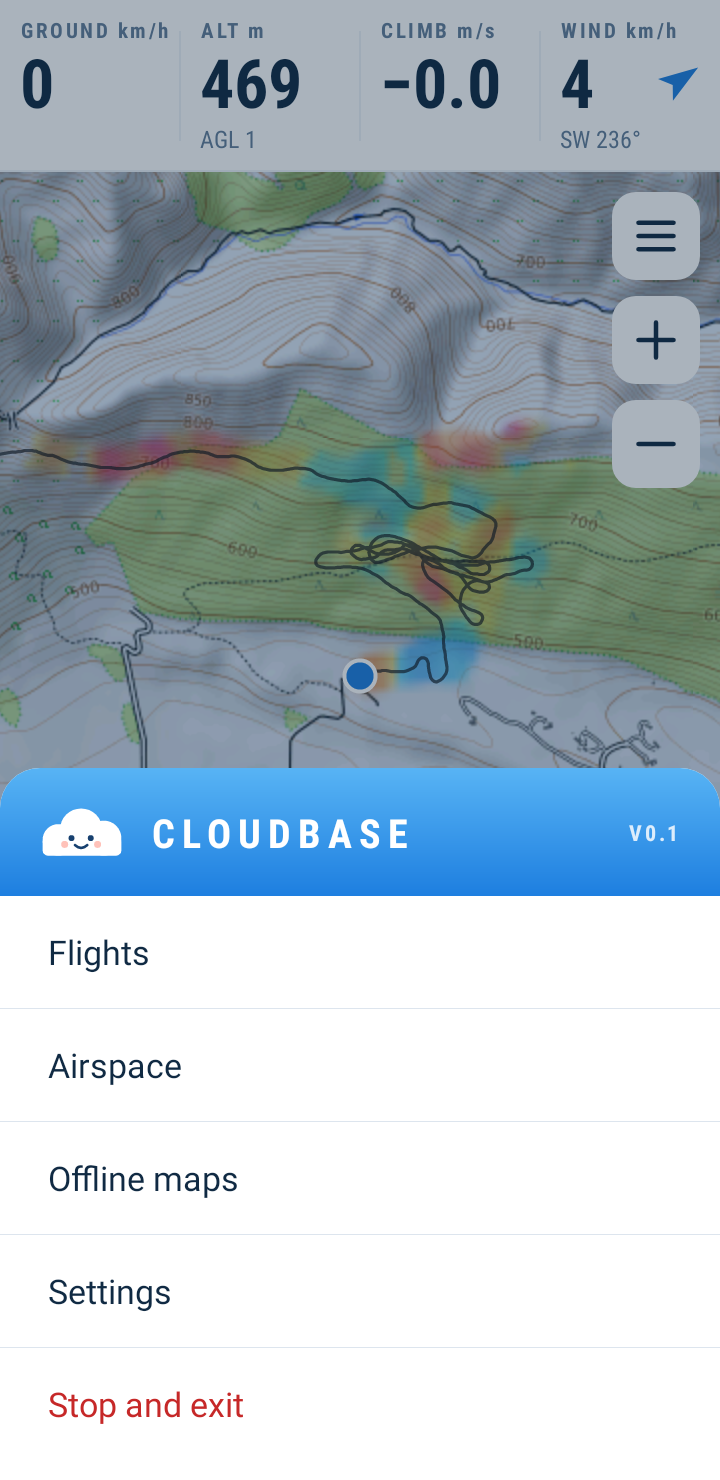
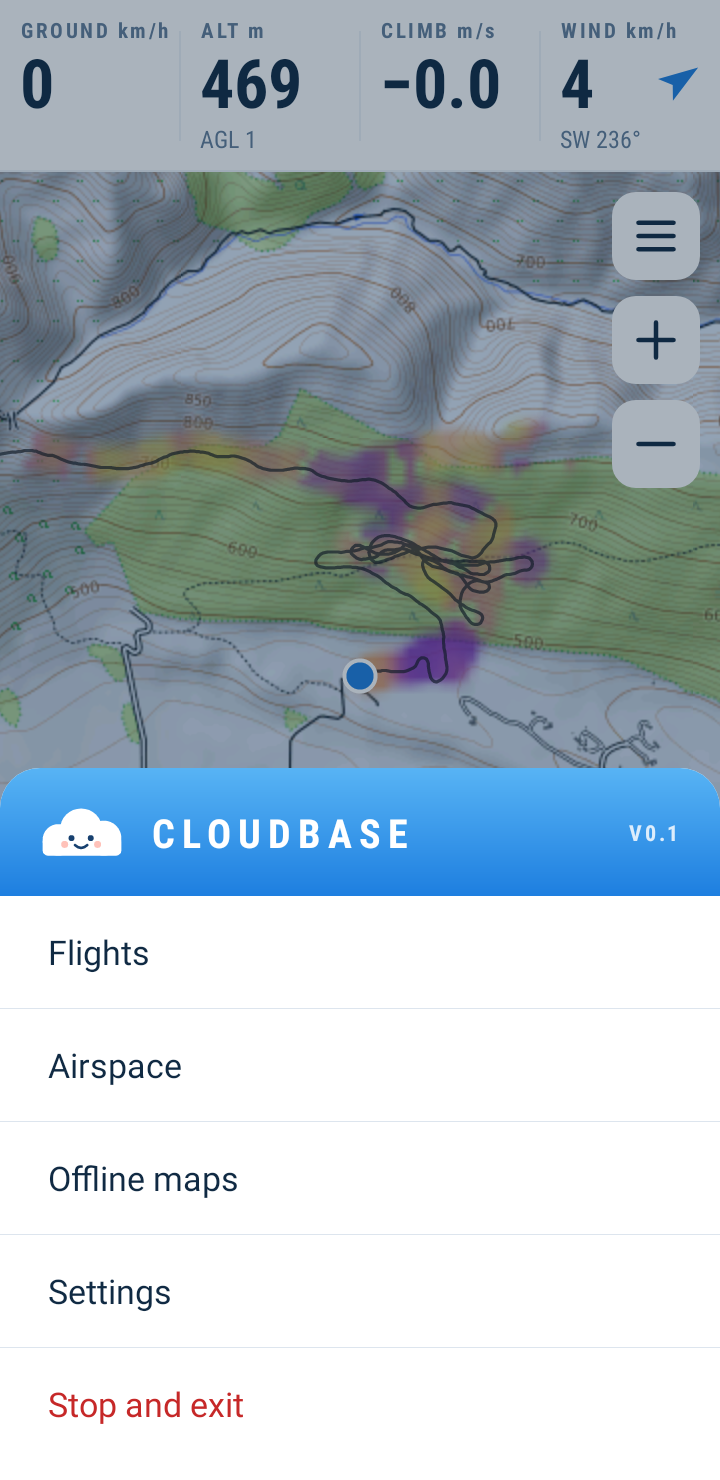
cloudbase: heat map on a single dark-to-bright (plasma) scale with sigmoid mapping
Claude-Session: https://claude.ai/code/session_01WPq8MfriARqNX7o4hLC8bK

Changed region(s): [[0.4278, 0.2797, 0.7639, 0.4662], [0.1222, 0.2797, 0.2444, 0.3419], [0.275, 0.2797, 0.3361, 0.3419]]

diff --git a/app/src/test/java/app/cloudbase/ui/HeatGridTest.kt b/app/src/test/java/app/cloudbase/ui/HeatGridTest.kt
@@ -3,49 +3,95 @@ package app.cloudbase.ui
 import org.junit.Assert.assertEquals
 import org.junit.Assert.assertTrue
 import org.junit.Test
+import kotlin.math.abs
 
 class HeatGridTest {
+    private val scale = 2.0f
     private fun alpha(c: Int) = c ushr 24
-    private fun red(c: Int) = c shr 16 and 0xFF
-    private fun blue(c: Int) = c and 0xFF
+    private fun rgb(c: Int) = c and 0xFFFFFF
 
-    @Test fun colourIsGraduatedAndSplitByDirection() {
-        // Nothing inside the dead band.
-        assertEquals(0, HeatGrid.color(0.1f, 3f, 1f))
-        assertEquals(0, HeatGrid.color(-0.15f, 3f, 1f))
-        // Lift is warm, sink is cool.
-        val lift = HeatGrid.color(2f, 3f, 1f)
-        val sink = HeatGrid.color(-2f, 3f, 1f)
-        assertTrue(red(lift) > blue(lift) + 80)
-        assertTrue(blue(sink) > red(sink) + 80)
-        // Stronger is more opaque, monotonically, and saturates at full scale.
-        var last = 0
-        for (v in listOf(0.3f, 0.6f, 1f, 1.5f, 2f, 2.5f, 3f)) {
-            val a = alpha(HeatGrid.color(v, 3f, 1f))
-            assertTrue("alpha at $v", a > last)
-            last = a
+    /** Perceived brightness, 0..255 (Rec. 601 luma). */
+    private fun luma(c: Int) = 0.299 * (c shr 16 and 0xFF) + 0.587 * (c shr 8 and 0xFF) + 0.114 * (c and 0xFF)
+
+    /** How far apart two colours are, in RGB. */
+    private fun distance(a: Int, b: Int): Double {
+        val dr = (a shr 16 and 0xFF) - (b shr 16 and 0xFF)
+        val dg = (a shr 8 and 0xFF) - (b shr 8 and 0xFF)
+        val db = (a and 0xFF) - (b and 0xFF)
+        return Math.sqrt((dr * dr + dg * dg + db * db).toDouble())
+    }
+
+    @Test fun brightnessRisesSteadilyFromSinkToClimb() {
+        var last = -1.0
+        var v = -6f
+        while (v <= 6f) {
+            if (abs(v) > HeatGrid.DEAD_BAND) {
+                val l = luma(HeatGrid.color(v, scale, 1f))
+                assertTrue("brightness at $v m/s ($l) must not be below the value before ($last)", l >= last - 0.5)
+                last = l
+            }
+            v += 0.25f
         }
-        assertEquals(HeatGrid.color(3f, 3f, 1f), HeatGrid.color(8f, 3f, 1f))
-        assertEquals(HeatGrid.MAX_ALPHA, alpha(HeatGrid.color(3f, 3f, 1f)))
-        // The hue itself changes with strength, not only the opacity.
-        assertTrue(HeatGrid.color(0.5f, 3f, 1f) and 0xFFFFFF != HeatGrid.color(2.8f, 3f, 1f) and 0xFFFFFF)
-        // Coverage fades.
-        assertTrue(alpha(HeatGrid.color(2f, 3f, 0.3f)) < alpha(lift))
+        // Strong sink is dark, strong climb is bright.
+        assertTrue(luma(HeatGrid.color(-5f, scale, 1f)) < 45)
+        assertTrue(luma(HeatGrid.color(5f, scale, 1f)) > 190)
+    }
+
+    @Test fun neverUsesTheMapsGreens() {
+        // The map underneath is greens and grey-blues; nothing on the scale may be green. (The
+        // bright end is yellow, where green and red are both high: that is not green.)
+        var v = -6f
+        while (v <= 6f) {
+            val c = HeatGrid.color(v, scale, 1f)
+            if (c != 0) {
+                val r = c shr 16 and 0xFF; val g = c shr 8 and 0xFF; val b = c and 0xFF
+                assertTrue("green at $v m/s: %06X".format(rgb(c)), !(g > r + 25 && g > b + 25))
+            }
+            v += 0.1f
+        }
+    }
+
+    @Test fun mostOfTheScaleIsSpentOnOrdinaryClimbRates() {
+        // Sigmoid: half a metre per second is a much bigger colour step near zero than out at the extremes.
+        val near = distance(HeatGrid.color(0.5f, scale, 1f), HeatGrid.color(1.0f, scale, 1f))
+        val far = distance(HeatGrid.color(4.0f, scale, 1f), HeatGrid.color(4.5f, scale, 1f))
+        assertTrue("near $near, far $far", near > 5 * far)
+        // Every half-step across the ordinary range is a clearly different colour.
+        var v = -2.5f
+        while (v < 2.5f) {
+            if (abs(v) > HeatGrid.DEAD_BAND && abs(v + 0.5f) > HeatGrid.DEAD_BAND) {
+                val d = distance(HeatGrid.color(v, scale, 1f), HeatGrid.color(v + 0.5f, scale, 1f))
+                assertTrue("%.1f to %.1f m/s differ by only %.0f".format(v, v + 0.5f, d), d > 18)
+            }
+            v += 0.5f
+        }
+        assertEquals(0.5f, HeatGrid.position(0f, scale), 1e-6f)
+        assertEquals(0.88f, HeatGrid.position(2.0f, scale), 0.01f)
+        assertTrue(HeatGrid.position(50f, scale) <= 1f && HeatGrid.position(-50f, scale) >= 0f)
+    }
+
+    @Test fun stillAirIsNotDrawnAndOpacityIsCoverageOnly() {
+        assertEquals(0, HeatGrid.color(0.1f, scale, 1f))
+        assertEquals(0, HeatGrid.color(-0.15f, scale, 1f))
+        // Weak and strong air are equally opaque: the colour carries the strength.
+        assertEquals(HeatGrid.ALPHA, alpha(HeatGrid.color(0.4f, scale, 1f)))
+        assertEquals(HeatGrid.ALPHA, alpha(HeatGrid.color(4f, scale, 1f)))
+        assertTrue(alpha(HeatGrid.color(2f, scale, 0.3f)) < HeatGrid.ALPHA / 2)
     }
 
     @Test fun oneCellBecomesASoftBlob() {
         val g = HeatGrid(16)
         g.clear()
         g.splat(8, 8, 2f, 1f)
-        g.render(3f)
+        g.render(scale)
         val centre = alpha(g.pixels[8 * 16 + 8])
         val next = alpha(g.pixels[8 * 16 + 9])
         val edge = alpha(g.pixels[8 * 16 + 10])
-        assertEquals(alpha(HeatGrid.color(2f, 3f, 1f)), centre)
+        assertEquals(HeatGrid.ALPHA, centre)
         assertTrue("fades outwards: $centre > $next > $edge > 0", centre > next && next > edge && edge > 0)
         assertEquals(0, g.pixels[8 * 16 + 11])
         // Same value everywhere it reaches: only the opacity falls off.
-        assertEquals(g.pixels[8 * 16 + 8] and 0xFFFFFF, g.pixels[8 * 16 + 9] and 0xFFFFFF)
+        assertEquals(rgb(g.pixels[8 * 16 + 8]), rgb(g.pixels[8 * 16 + 9]))
         // Symmetric.
         assertEquals(g.pixels[8 * 16 + 9], g.pixels[8 * 16 + 7])
         assertEquals(g.pixels[8 * 16 + 9], g.pixels[9 * 16 + 8])
@@ -56,45 +102,43 @@ class HeatGridTest {
         g.clear()
         g.splat(6, 8, 2f, 1f)
         g.splat(8, 8, -2f, 1f)
-        g.render(3f)
-        // Exactly between equal lift and sink the average is zero: transparent, not purple.
+        g.render(scale)
+        // Exactly between equal lift and sink the average is zero: transparent.
         assertEquals(0, g.pixels[8 * 16 + 7])
-        assertTrue(red(g.pixels[8 * 16 + 6]) > blue(g.pixels[8 * 16 + 6]))
-        assertTrue(blue(g.pixels[8 * 16 + 8]) > red(g.pixels[8 * 16 + 8]))
+        assertTrue(luma(g.pixels[8 * 16 + 6]) > luma(g.pixels[8 * 16 + 8]) + 60)
     }
 
     @Test fun oldCellsCountForLess() {
         val g = HeatGrid(16)
         g.clear()
         g.splat(8, 8, 2f, 0.3f)
-        g.render(3f)
+        g.render(scale)
         val faded = alpha(g.pixels[8 * 16 + 8])
-        assertTrue(faded > 0 && faded < alpha(HeatGrid.color(2f, 3f, 1f)))
-        // A fresh sample on the same spot outweighs an old one.
+        assertTrue(faded > 0 && faded < HeatGrid.ALPHA)
+        // A fresh sample on the same spot outweighs an old one: the result is on the sink side.
         g.splat(8, 8, -2f, 1f)
-        g.render(3f)
-        assertTrue(blue(g.pixels[8 * 16 + 8]) > red(g.pixels[8 * 16 + 8]))
+        g.render(scale)
+        assertTrue(luma(g.pixels[8 * 16 + 8]) < luma(HeatGrid.color(0.3f, scale, 1f)))
     }
 
     @Test fun aDensePatchOfOldSamplesIsAsFadedAsOneOldSample() {
         val lone = HeatGrid(16)
-        lone.clear(); lone.splat(8, 8, 2f, 0.5f); lone.render(3f)
+        lone.clear(); lone.splat(8, 8, 2f, 0.5f); lone.render(scale)
         val dense = HeatGrid(16)
         dense.clear()
         for (y in 4..12) for (x in 4..12) dense.splat(x, y, 2f, 0.5f)
-        dense.render(3f)
-        val full = alpha(HeatGrid.color(2f, 3f, 1f))
+        dense.render(scale)
         assertEquals(alpha(lone.pixels[8 * 16 + 8]), alpha(dense.pixels[8 * 16 + 8]))
-        assertEquals(full / 2.0, alpha(dense.pixels[8 * 16 + 8]).toDouble(), 2.0)
+        assertEquals(HeatGrid.ALPHA / 2.0, alpha(dense.pixels[8 * 16 + 8]).toDouble(), 2.0)
     }
 
     @Test fun edgesAndClearAreSafe() {
         val g = HeatGrid(8)
         g.clear()
         for (p in listOf(-5, -2, -1, 0, 7, 8, 9, 20)) { g.splat(p, p, 1f, 1f); g.splat(p, 3, 1f, 1f) }
-        g.render(3f)
+        g.render(scale)
         g.clear()
-        g.render(3f)
+        g.render(scale)
         assertTrue(g.pixels.all { it == 0 })
     }
 }

diff --git a/app/src/main/java/app/cloudbase/ui/HeatGrid.kt b/app/src/main/java/app/cloudbase/ui/HeatGrid.kt
@@ -2,6 +2,7 @@ package app.cloudbase.ui
 
 import kotlin.math.abs
 import kotlin.math.min
+import kotlin.math.tanh
 
 /**
  * Turns scattered lift/sink cells into a smooth picture: a small grid, one pixel per thermal-map
@@ -45,8 +46,8 @@ class HeatGrid(val n: Int) {
         }
     }
 
-    /** Fill [pixels]. [fullScale] is the climb or sink (m/s) at which the colour is at its strongest. */
-    fun render(fullScale: Float) {
+    /** Fill [pixels]. [scale] sets how quickly the colours run out towards the ends: see [position]. */
+    fun render(scale: Float) {
         for (i in pixels.indices) {
             val w = weight[i]
             if (w < 1e-5f) { pixels[i] = 0; continue }
@@ -55,7 +56,7 @@ class HeatGrid(val n: Int) {
             // Opacity is coverage times the average say of what landed here, so a whole patch of
             // old samples is as faded as a single old sample, however densely it was flown.
             val coverage = min(1f, cover[i] / CENTRE_WEIGHT)
-            pixels[i] = color(v, fullScale, coverage * (w / cover[i]))
+            pixels[i] = color(v, scale, coverage * (w / cover[i]))
         }
     }
 
@@ -66,33 +67,39 @@ class HeatGrid(val n: Int) {
         private const val CENTRE_WEIGHT = (6 / 16f) * (6 / 16f)
         /** Air moving less than this is shown as nothing: it is within the noise of the estimate. */
         const val DEAD_BAND = 0.2f
-        const val MAX_ALPHA = 235
+        const val ALPHA = 225
 
-        // Graduated ramps, weakest to strongest, so strength reads from the hue as well as the
-        // opacity. Every stop is fully saturated, and chosen to be a colour the topographic map
-        // underneath does not use: the map is muted greens, greys, browns and a pale grey-blue,
-        // which is exactly what a soft blue or a dull red disappears into in sunlight. Lift runs
-        // yellow through orange and red to hot pink; sink runs cyan through electric blue to violet.
-        private val LIFT = intArrayOf(0xFFD600, 0xFF9100, 0xFF3D00, 0xFF1744, 0xD5006D)
-        private val SINK = intArrayOf(0x00E5FF, 0x00B0FF, 0x2979FF, 0x3D5AFE, 0x651FFF)
+        /**
+         * One continuous scale from sink to climb: the "plasma" colour map, deep indigo through
+         * purple, magenta and orange to bright yellow. Chosen because (1) it gets steadily
+         * brighter from one end to the other, so stronger climb is always lighter and the order
+         * survives glare and colour-blindness, where a rainbow's does not; and (2) unlike viridis
+         * it has no green or grey-blue in it, which are the colours of the map underneath.
+         */
+        private val PLASMA = intArrayOf(0x0D0887, 0x5402A3, 0x8B0AA5, 0xB93289, 0xDB5C68, 0xF48849, 0xFEBC2A, 0xF0F921)
 
-        /** ARGB for a climb value. [coverage] 0..1 fades the edges of the mapped area. */
-        fun color(climb: Float, fullScale: Float, coverage: Float): Int {
-            val mag = abs(climb)
-            if (mag <= DEAD_BAND || coverage <= 0f) return 0
-            val t = min(1f, (mag - DEAD_BAND) / (fullScale - DEAD_BAND))
-            val ramp = if (climb > 0) LIFT else SINK
-            val pos = t * (ramp.size - 1)
-            val k = min(pos.toInt(), ramp.size - 2)
+        /**
+         * Where a climb value sits on the scale, 0..1. A sigmoid (tanh) centred on still air:
+         * most of the colour range is spent on the ordinary +-2 m/s where telling values apart
+         * matters, and extreme values flatten out towards the ends instead of all looking the
+         * same shade once past a hard limit. [scale] is the climb at which 76 % of the way from
+         * the middle to the end has been used.
+         */
+        fun position(climb: Float, scale: Float): Float = 0.5f + 0.5f * tanh(climb / scale)
+
+        /** ARGB for a climb value. [coverage] 0..1 fades the edges of the mapped area and old samples. */
+        fun color(climb: Float, scale: Float, coverage: Float): Int {
+            if (abs(climb) <= DEAD_BAND || coverage <= 0f) return 0
+            val pos = position(climb, scale) * (PLASMA.size - 1)
+            val k = min(pos.toInt(), PLASMA.size - 2)
             val f = pos - k
-            val a = ramp[k]
-            val b = ramp[k + 1]
+            val a = PLASMA[k]
+            val b = PLASMA[k + 1]
             val r = mix(a shr 16 and 0xFF, b shr 16 and 0xFF, f)
             val g = mix(a shr 8 and 0xFF, b shr 8 and 0xFF, f)
             val bl = mix(a and 0xFF, b and 0xFF, f)
-            // Weak air is lighter, strong air nearly solid; even the weakest is opaque enough to
-            // read in sunlight, and nothing is fully opaque so the map still shows through.
-            val alpha = (MAX_ALPHA * coverage * (0.55f + 0.45f * t)).toInt()
+            // The colour says how strong; opacity only says how well covered and how fresh.
+            val alpha = (ALPHA * min(1f, coverage)).toInt()
             return (alpha shl 24) or (r shl 16) or (g shl 8) or bl
         }
 

diff --git a/app/src/main/java/app/cloudbase/ui/Overlays.kt b/app/src/main/java/app/cloudbase/ui/Overlays.kt
@@ -113,8 +113,8 @@ class AirspaceOverlay(context: Context) : MapView.Overlay {
 }
 
 /**
- * The lift/sink heat map: a smooth cloud over the air that has been flown through, warm colours
- * where it was rising and cool where it was sinking, stronger colour for stronger air.
+ * The lift/sink heat map: a smooth cloud over the air that has been flown through, on one
+ * continuous colour scale from dark (sinking) to bright (rising).
  *
  * Every thermal-map cell sits on one regular lattice (they all drift together), so the cells map
  * straight onto the pixels of a small bitmap, which [HeatGrid] smooths and the canvas scales up.
@@ -158,7 +158,7 @@ class ThermalOverlay(context: Context) : MapView.Overlay, ThermalMap.Visitor {
         pass = HISTORY
         history.forEach(s, w, n, e, now, this)
         if (!hasPhase) return
-        grid.render(FULL_SCALE_MS)
+        grid.render(SCALE_MS)
         bitmap.setPixels(grid.pixels, 0, SIZE, 0, 0, SIZE, SIZE)
 
         // Pixel (i, j) is the lattice point (cx - SIZE/2 + i, cy + SIZE/2 - j): north is up.
@@ -196,8 +196,8 @@ class ThermalOverlay(context: Context) : MapView.Overlay, ThermalMap.Visitor {
     }
 
     companion object {
-        /** Lift or sink at which the colour is at its strongest. */
-        const val FULL_SCALE_MS = 3.0f
+        /** Sigmoid scale of the colour map, m/s: about three quarters of each half is used by this much climb or sink. */
+        const val SCALE_MS = 2.0f
         /** How strongly old, ground-fixed samples are drawn next to fresh ones: faded, still legible. */
         const val HISTORY_STRENGTH = 0.6f
         const val SIZE = 96

diff --git a/README.md b/README.md
@@ -40,10 +40,11 @@ is carrying you on the map.
 **Map.** North-up topographic map. Airspace you must stay out of is outlined blue (controlled)
 or red (restricted, danger, military); informational airspace is thin grey. Press and hold on an
 airspace for its limits, or to ignore it. **Tap the map once to zoom in, twice to zoom out**
-(made for gloves; the + and − buttons and pinch work too). The coloured cloud is the **thermal map**: yellow through orange
-and red to hot pink where the air was rising (weak to strong), cyan through electric blue to
-violet where it was sinking, in saturated colours the map itself does not use so they stand out
-in sunlight, drifting downwind with the air; the red ring marks the best lift nearby. That drift only lasts
+(made for gloves; the + and − buttons and pinch work too). The coloured cloud is the **thermal map**, on one continuous scale
+from dark to bright: deep indigo and purple where the air was sinking, through magenta and
+orange to bright yellow where it was rising. Most of the colour range is spent on ordinary
+values (within about 2 m/s either way), and the scale has no green or grey-blue in it, so it
+does not blend into the map. It is drifting downwind with the air; the red ring marks the best lift nearby. That drift only lasts
 five minutes, long enough to centre the climb you are in. After that a patch is shown, faded,
 at the ground location where you met it, and stays there for the rest of the flight: thermals
 come off terrain, so the place is what is worth remembering. The map **zooms in close when you start circling** and back out when you leave.
